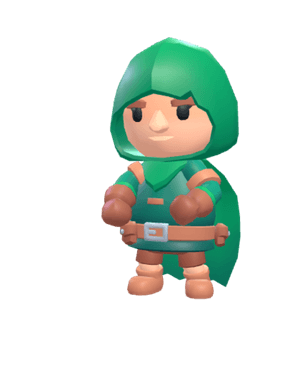
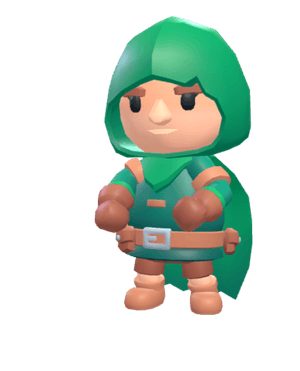
Join menu: enlarge Mystic & Wanderer portraits to match the others
The Rogue-Hooded (Mystic) and Rogue (Wanderer) models are slimmer and
sat visibly smaller in their tiles than the hatted/bulkier classes.
Re-rendered just those two portraits at 1.15x zoom so all six read at a
consistent size. Bumped the image src to ?v=2 (join tiles + account
roster) so the new portraits bust the CDN/browser cache.

Claude-Session: https://claude.ai/code/session_014upby61fMmizgg2cMkKvqW

Changed region(s): [[0.3, 0.0296, 0.87, 0.8598]]

diff --git a/public/index.html b/public/index.html
@@ -3116,7 +3116,7 @@
         <span class="charName">Werewolf</span>
       </button>
       <button class="charOption" data-char="2" title="Mystic — sees what others can't">
-        <img class="charImg" src="charselect/char2.png" alt="Mystic" loading="eager" decoding="async">
+        <img class="charImg" src="charselect/char2.png?v=2" alt="Mystic" loading="eager" decoding="async">
         <span class="charName">Mystic</span>
       </button>
       <button class="charOption" data-char="3" title="Knight — the town's steel shield">
@@ -3124,7 +3124,7 @@
         <span class="charName">Knight</span>
       </button>
       <button class="charOption" data-char="4" title="Wanderer — unleashes 12 wandering skills">
-        <img class="charImg" src="charselect/char4.png" alt="Wanderer" loading="eager" decoding="async">
+        <img class="charImg" src="charselect/char4.png?v=2" alt="Wanderer" loading="eager" decoding="async">
         <span class="charName">Wanderer</span>
       </button>
       <button class="charOption" data-char="5" title="Lich — raises undead to fight for you">
@@ -3210,6 +3210,6 @@ window.onerror = function(msg, src, line, col, err) {
   window.THORNREACH_ASSET_BASE = '';
 </script>
 <script src="face-api.min.js"></script>
-<script src="client.js?v=9ae3db7fe2"></script>
+<script src="client.js?v=a680875984"></script>
 </body>
 </html>

diff --git a/public/client.js b/public/client.js
@@ -12147,7 +12147,7 @@ function renderCharRoster() {
     av.className = 'rosterAvatar';
     const avImg = document.createElement('img');
     avImg.className = 'rosterImg';
-    avImg.src = 'charselect/char' + c.charId + '.png';
+    avImg.src = 'charselect/char' + c.charId + '.png?v=2';
     avImg.alt = preset.name;
     avImg.loading = 'lazy';
     avImg.decoding = 'async';

diff --git a/client/account-select.js b/client/account-select.js
@@ -115,7 +115,7 @@ function renderCharRoster() {
     av.className = 'rosterAvatar';
     const avImg = document.createElement('img');
     avImg.className = 'rosterImg';
-    avImg.src = 'charselect/char' + c.charId + '.png';
+    avImg.src = 'charselect/char' + c.charId + '.png?v=2';
     avImg.alt = preset.name;
     avImg.loading = 'lazy';
     avImg.decoding = 'async';
